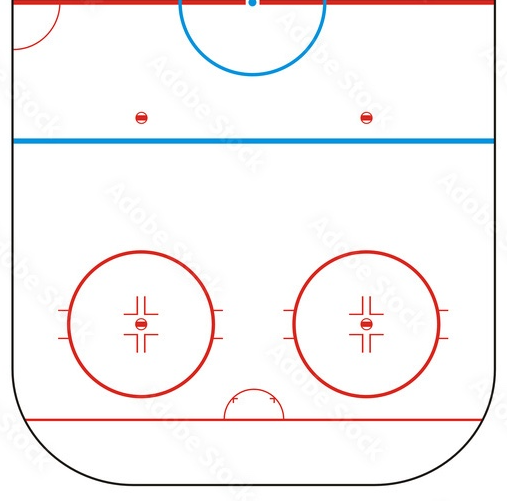
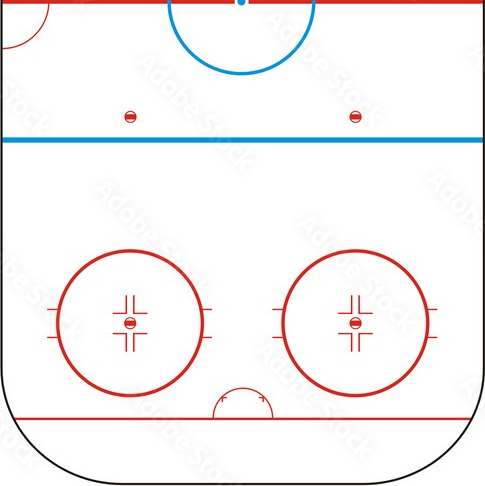
Updates rink image

Changed region(s): [[0.0, 0.0, 1.0, 1.0], [0.2165, 0.5864, 0.3093, 0.7407], [0.6804, 0.5864, 0.7732, 0.7407]]

diff --git a/src/components/RinkVisualizer.tsx b/src/components/RinkVisualizer.tsx
@@ -17,11 +17,16 @@ import puckEvents from "@/data/events";
 
 const RinkVisualizer = () => {
   const scale = 6;
-  const xPx = (x: number) => (x / 100) * 300;
-  const yPx = (y: number) => (y / 100) * 270; // stops just above goal line
+  const xPx = (x: number) => (x / 100) * 485;
+  const yPx = (y: number) => (y / 100) * 486; // stops just above goal line
+
+  // blue line y-axis: 140
+  // right faceoff dot: [355, 323]
+  // left faceoff dot: [129, 323]
+  // goal line y-axis: 418
 
   return (
-    <svg width={507} height={501} style={{ border: "1px solid #ccc" }}>
+    <svg width={485} height={486} style={{ border: "1px solid #ccc" }}>
       <image href="/rink.png" x="0" y="0" width="507" height="501" />
 
       {puckEvents.map((e: PuckEvent) => (
